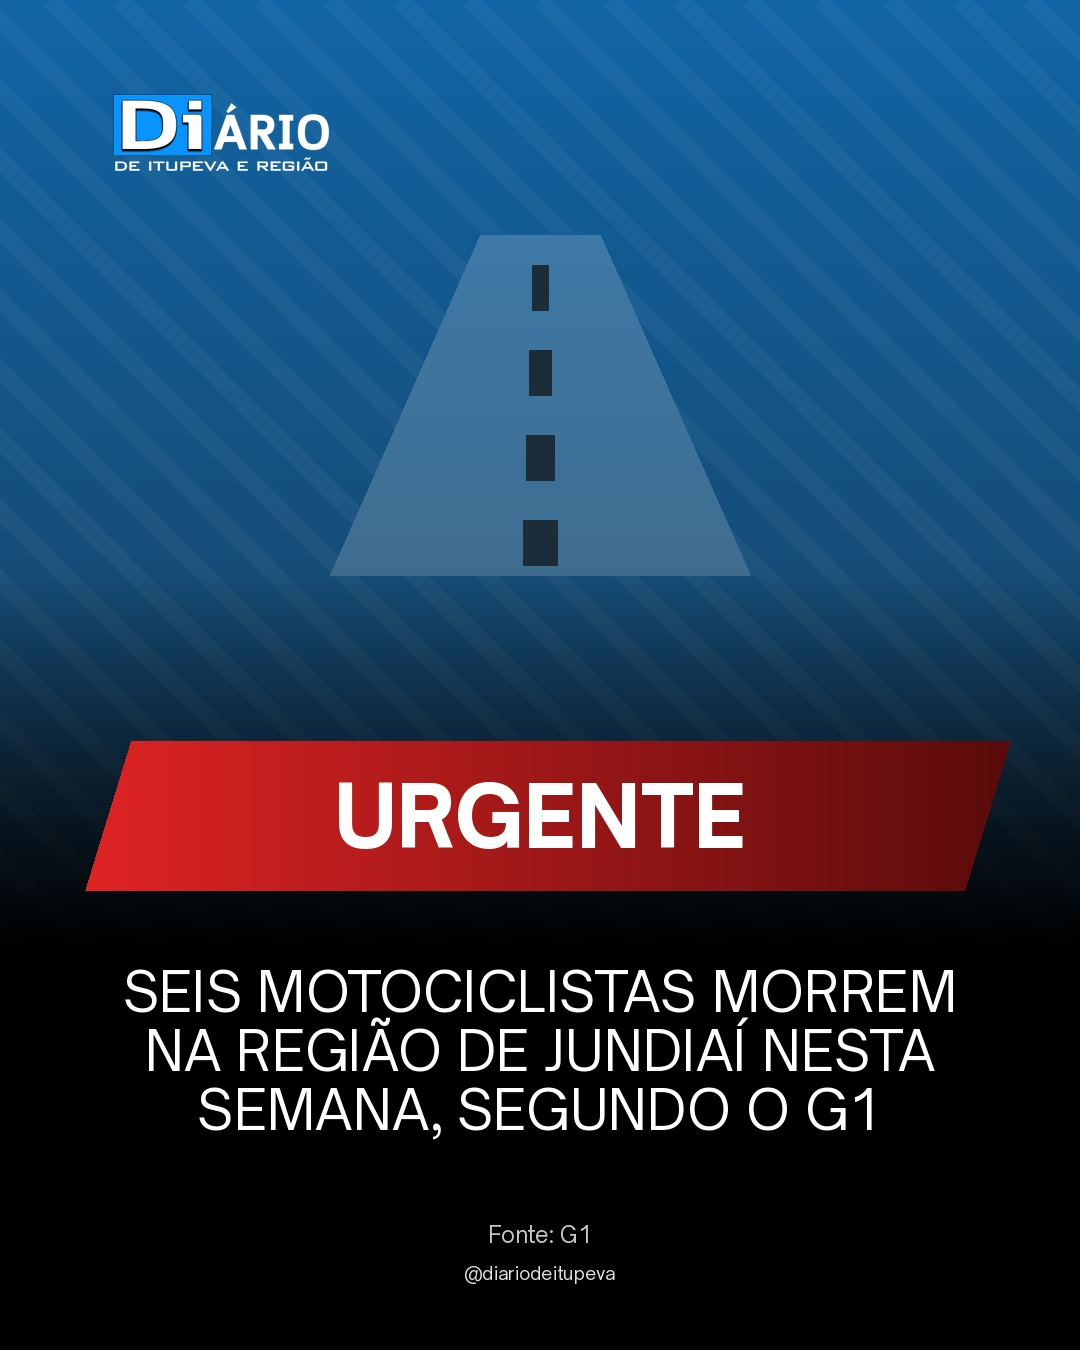
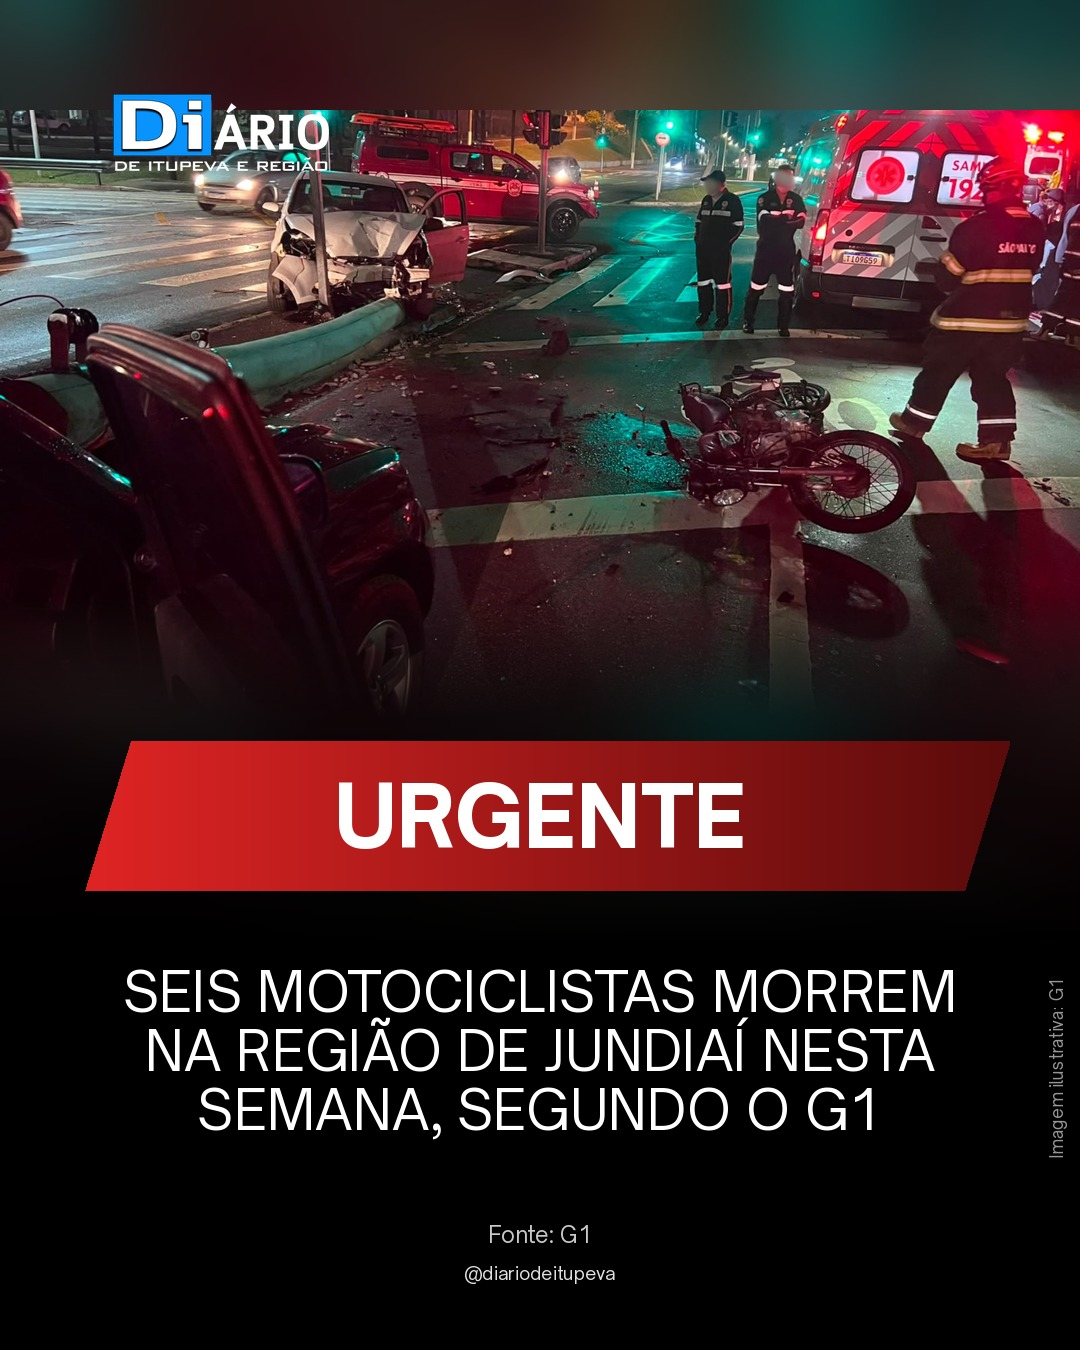
fila recebida de claude/confident-thompson-2l2hpr

diff --git a/registro/historico.md b/registro/historico.md
@@ -23,4 +23,4 @@
 | 2026-11-12 | 9h (substitui o horário vazio) | Jovem motociclista de 20 anos morre em acidente em Itupeva (issue #7). Notícia de 11/11, por isso sem tarja de urgente, tom sóbrio | Jornal da Região (fonte única; exceção aberta pelo Alef) | na fila, aprovado pelo Alef. Foto do JR (capacete quebrado, sem pessoas, selo JR mantido), marcada "Imagem ilustrativa". Edith: aprovada com ajustes (sem nome, sem detalhe não confirmado, tudo atribuído ao JR). Pendência para o Visão: confirmar local e causa em fonte oficial |
 | 2026-11-12 | urgente | Homem de cerca de 60 anos morre ao limpar chaminé no Parque Resedas, Itupeva (issue #10); suspeita inicial de queda, morte suspeita, corpo no IML | Jornal da Região; Sampi Jundiaí (sem fonte oficial) | na fila, aprovado pelo Alef. Foto enviada pelo Alef (laço preto), "Imagem ilustrativa". Edith: aprovada (sem nome, sem imagem chocante). Pendência para o Visão: confirmar causa em fonte oficial |
 | 2026-11-12 | 12h | Dupla presa em flagrante em Nova Odessa por desvio de mercadorias de empresa de Itupeva; esquema de cerca de 2 anos, prejuízo que pode passar de R$ 1 milhão (Polícia Civil) | G1; A Voz Jundiaí; Portal Sorocaba.com | na fila, aprovado pelo Peter (foto da matéria: G1, carga no caminhão, placa borrada, sem pessoas; recorte do painel esquerdo da montagem; manchete sem o valor, que fica no subtítulo como "pode passar"). Edith: aprovada (sem nomes, "suspeitos", atribuído à Polícia Civil). Plano B: vacinação para todas as idades na Ponte São João, sábado (14). Obs.: matéria-prima só consta no título da rádio; arte diz "carga". Pendência para o Visão: confirmar tipo de mercadoria e empresa em fonte oficial |
-| 2026-11-12 | urgente | Seis motociclistas morrem na região de Jundiaí nesta semana (issue #11); texto só com o que consta na manchete, atribuído ao G1 | G1 (manchete; reportagem não pôde ser lida na sessão; sem fonte oficial) | na fila, aprovado por ordem do usuário na sessão (exceção à regra de fonte oficial/dois veículos). Arte com ícone de estrada, sem foto. Edith: sem nomes, sem imagem chocante, tudo atribuído. Pendência para o Visão: confirmar locais, datas e causas |
+| 2026-11-12 | urgente | Seis motociclistas morrem na região de Jundiaí nesta semana (issue #11); texto só com o que consta na manchete, atribuído ao G1 | G1 (manchete; reportagem não pôde ser lida na sessão; sem fonte oficial) | na fila, aprovado por ordem do usuário na sessão (exceção à regra de fonte oficial/dois veículos). Arte com foto enviada pelo usuário (crédito G1, marcada "Imagem ilustrativa"; sem vítima visível, rostos já borrados). Edith: sem nomes, sem imagem chocante, tudo atribuído. Pendência para o Visão: confirmar locais, datas e causas |
